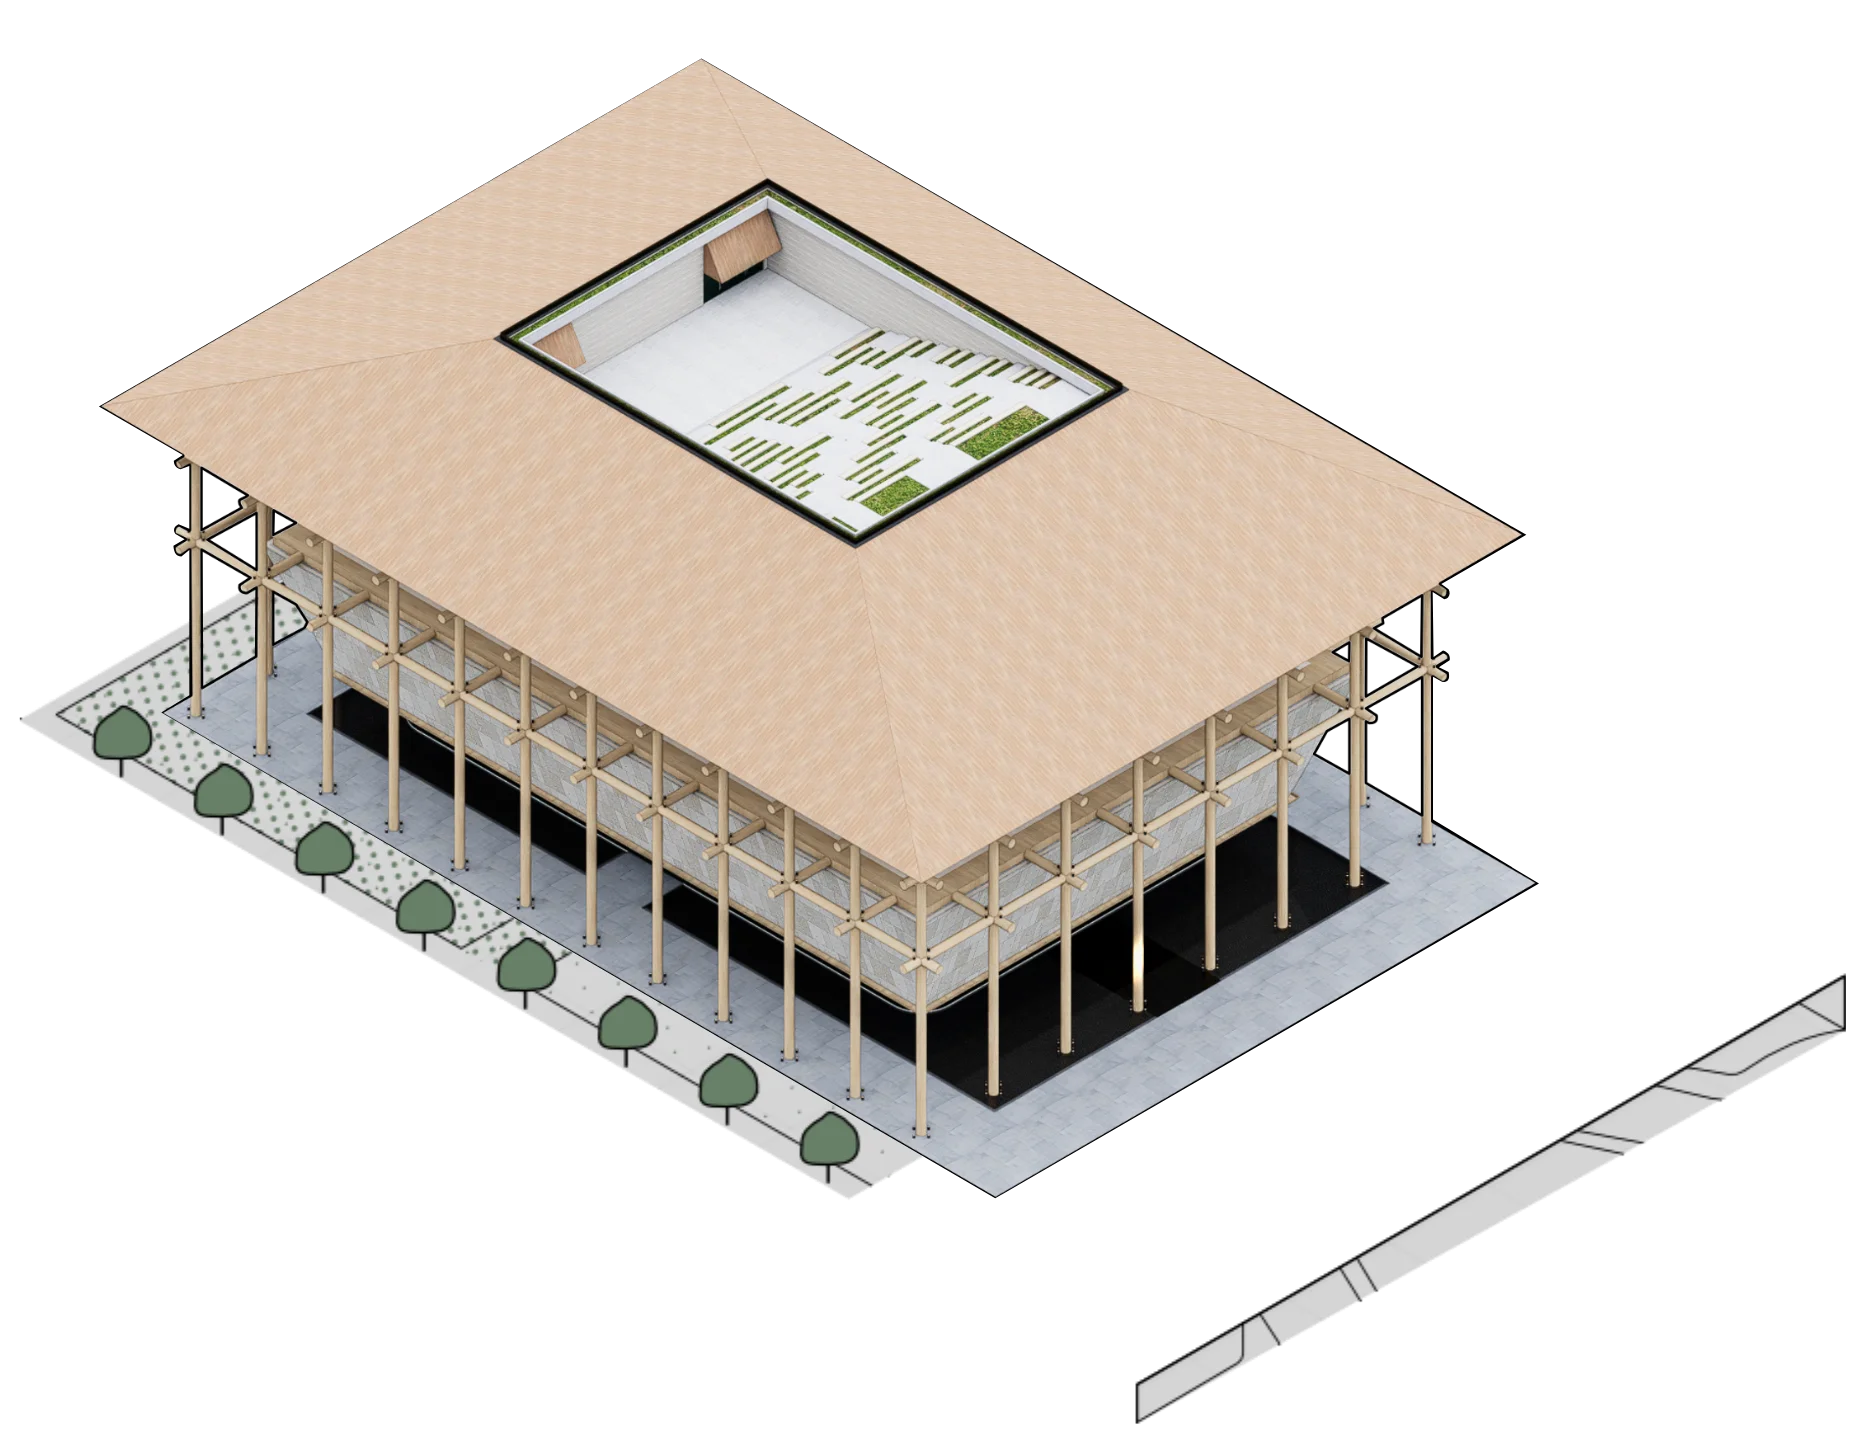
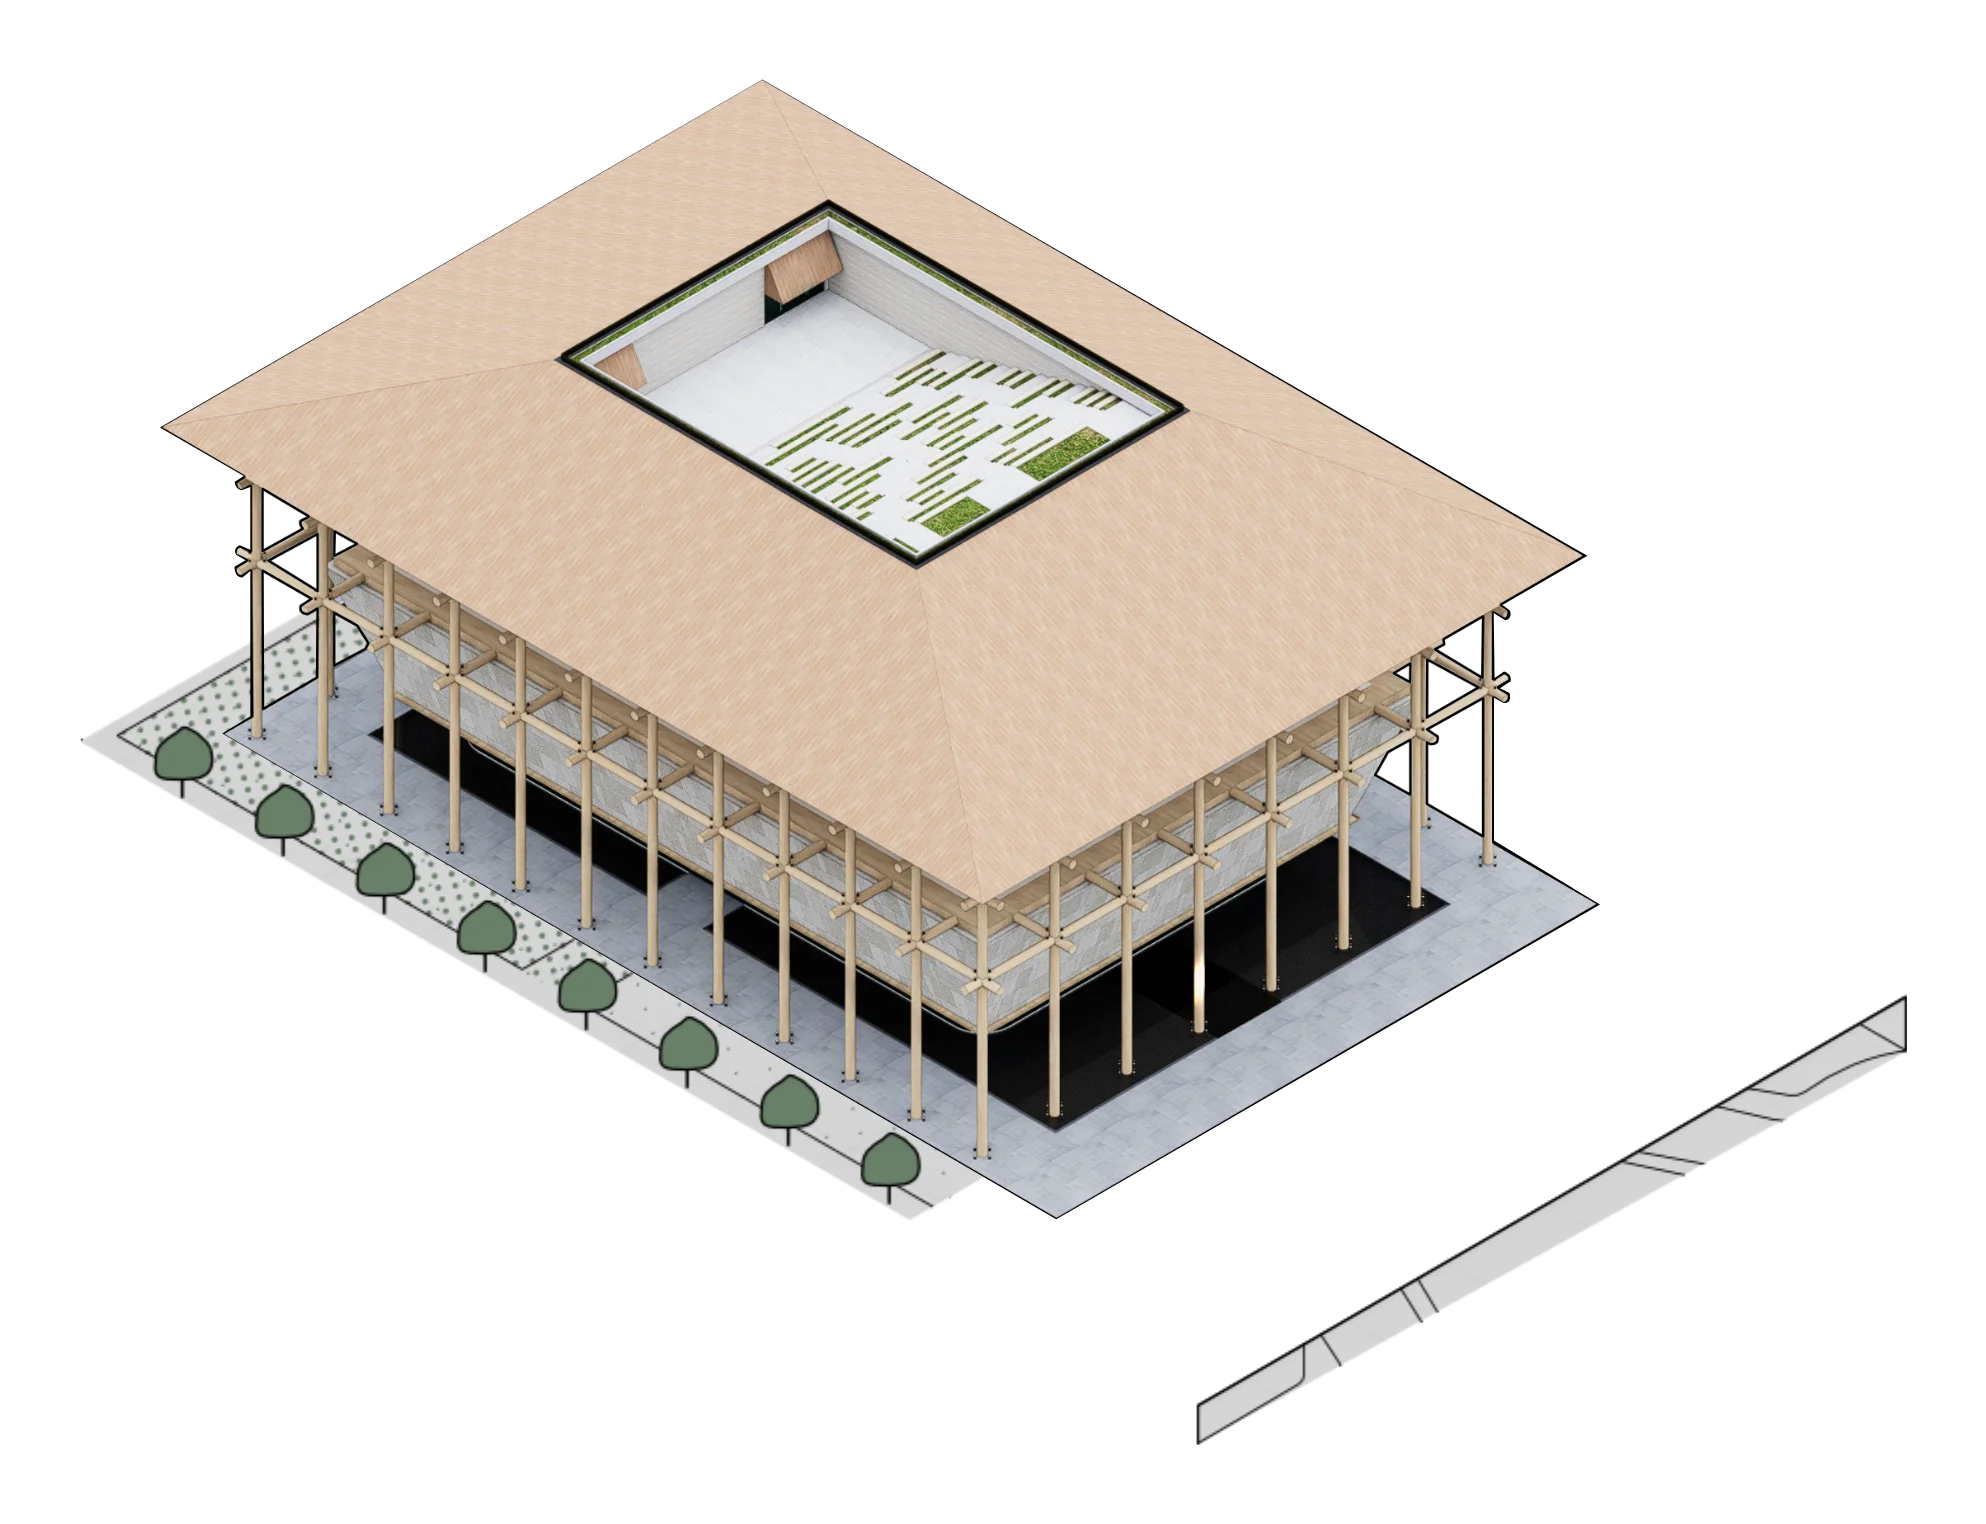
Fix OBRAverse map bugs and simplify the filter bar
- Fix PNP Facility's broken hover photo — 19 image paths in projects.ts
  pointed at .PNG (didn't exist); actual files are .webp
- Fix Loboc hover halo clipping — its overlay was cropped tight against
  a walkway that extended to the edge, so the blurred/scaled halo got
  hard-clipped; regenerate with generous padding around true content
- Remove non-functional DATE/ALPHABETICAL sort and search bar from the
  OBRAverse wordmark bar (leftover from an earlier list-based design,
  had no effect on the map) and fix mobile layout overlap
- Restore full-color map (grayscale/green-dots exploration reverted)

diff --git a/src/pages/obraverse/page.tsx b/src/pages/obraverse/page.tsx
@@ -3,8 +3,6 @@ import Navbar from '@/components/feature/Navbar';
 import Footer from '@/components/feature/Footer';
 import ObraverseMap from '@/components/feature/ObraverseMap';
 
-type SortMode = 'date' | 'alpha';
-
 /* Cloud field for the intro: position, size, and the direction each cloud
    drifts as the sky parts to reveal the map. */
 const INTRO_CLOUDS = [
@@ -28,8 +26,6 @@ const INTRO_CLOUDS = [
 const INTRO_MIN_MS = 2400;
 
 const ObraversePage = () => {
-  const [sort, setSort] = useState<SortMode>('date');
-  const [search, setSearch] = useState('');
   const [reveal, setReveal] = useState(false);
   const [introGone, setIntroGone] = useState(false);
   const mapWrapRef = useRef<HTMLDivElement>(null);
@@ -54,9 +50,10 @@ const ObraversePage = () => {
     const failsafe = new Promise<void>(res => { timers.push(setTimeout(res, 7000)); });
     Promise.race([Promise.all([assets, minHold]), failsafe]).then(() => {
       if (cancelled) return;
-      // position the view near the plaza while the clouds still cover the screen
+      // desktop only: position the view near the plaza while the clouds still
+      // cover the screen; mobile starts at the top of the map
       const el = mapWrapRef.current;
-      if (el) {
+      if (el && window.matchMedia('(min-width: 768px)').matches) {
         const top = el.getBoundingClientRect().top + window.scrollY;
         window.scrollTo({ top: top + el.offsetHeight * 0.72 - window.innerHeight / 2, behavior: 'instant' });
       }
@@ -76,67 +73,20 @@ const ObraversePage = () => {
       {/* Wordmark bar — scrolls away with the page (sticky version slid under
           the fixed navbar and its border showed as a stray line) */}
       <div className="bg-white border-b border-[#e4e3e2]">
-        <div className="flex items-center justify-between px-6 md:px-10 py-3">
-
-          {/* Left: OBRAverse wordmark */}
+        <div className="flex items-center px-6 md:px-10 py-3">
           <div className="flex items-baseline">
             <span
-              className="text-[42px] md:text-[56px] lg:text-[68px] leading-none tracking-[-2px] text-[#383838] font-bold"
+              className="text-[32px] md:text-[56px] lg:text-[68px] leading-none tracking-[-2px] text-[#383838] font-bold"
               style={{ fontFamily: 'var(--font-serif)' }}
             >
               OBRA
             </span>
             <span
-              className="text-[42px] md:text-[56px] lg:text-[68px] leading-none tracking-[-2px] text-[#383838] font-bold"
+              className="text-[32px] md:text-[56px] lg:text-[68px] leading-none tracking-[-2px] text-[#383838] font-bold"
               style={{ fontFamily: 'var(--font-serif)' }}
             >
               verse
             </span>
-          </div>
-
-          {/* Right: sort + pill search */}
-          <div className="flex items-center gap-5 md:gap-7">
-            <button
-              onClick={() => setSort('date')}
-              className={[
-                'text-[11px] tracking-[2.5px] transition-colors duration-200 whitespace-nowrap cursor-pointer',
-                sort === 'date' ? 'text-[#383838]' : 'text-[#c8c7c6] hover:text-[#797979]',
-              ].join(' ')}
-              style={{ fontFamily: 'var(--font-sans)' }}
-            >
-              DATE &uarr;
-            </button>
-            <button
-              onClick={() => setSort('alpha')}
-              className={[
-                'text-[11px] tracking-[2.5px] transition-colors duration-200 whitespace-nowrap cursor-pointer',
-                sort === 'alpha' ? 'text-[#383838]' : 'text-[#c8c7c6] hover:text-[#797979]',
-              ].join(' ')}
-              style={{ fontFamily: 'var(--font-sans)' }}
-            >
-              ALPHABETICAL
-            </button>
-
-            {/* Pill search */}
-            <div className="flex items-center gap-2 border border-[#e4e3e2] rounded-full px-4 py-[6px]">
-              <i className="ri-search-line text-[12px] text-[#aaa]" />
-              <input
-                type="text"
-                value={search}
-                onChange={e => setSearch(e.target.value)}
-                placeholder="SEARCH"
-                className="text-[11px] tracking-[2px] bg-transparent border-none outline-none placeholder-[#c8c7c6] text-[#383838] w-20 md:w-28"
-                style={{ fontFamily: 'var(--font-sans)' }}
-              />
-              {search && (
-                <button
-                  onClick={() => setSearch('')}
-                  className="w-4 h-4 flex items-center justify-center text-[#c8c7c6] hover:text-[#383838] transition-colors duration-150 cursor-pointer"
-                >
-                  <i className="ri-close-line text-[12px]" />
-                </button>
-              )}
-            </div>
           </div>
         </div>
       </div>

diff --git a/src/mocks/projects.ts b/src/mocks/projects.ts
@@ -479,29 +479,29 @@ export const projects: Project[] = [
     status: 'Design Development',
     concept: 'A government facility designed to project authority while remaining accessible to the public it serves. The architecture is disciplined and direct — clean geometry, durable materials, and a clear organizational logic.',
     conceptExtended: 'The building is arranged around a central courtyard that provides natural ventilation and a secure outdoor gathering space. Public-facing functions are placed on the ground floor and are directly accessible from the street. Administrative and operational areas occupy the upper levels, separated from public access but connected to shared amenities.',
-    imageUrl: '/images/pnp-facility/perspective-07.PNG',
+    imageUrl: '/images/pnp-facility/perspective-07.webp',
     imageAspect: '4/3',
     tileImages: [
-      '/images/pnp-facility/perspective-02.PNG',
-      '/images/pnp-facility/perspective-03.PNG',
-      '/images/pnp-facility/perspective-04.PNG',
-      '/images/pnp-facility/perspective-05.PNG',
-      '/images/pnp-facility/perspective-06.PNG',
-      '/images/pnp-facility/perspective-07.PNG',
+      '/images/pnp-facility/perspective-02.webp',
+      '/images/pnp-facility/perspective-03.webp',
+      '/images/pnp-facility/perspective-04.webp',
+      '/images/pnp-facility/perspective-05.webp',
+      '/images/pnp-facility/perspective-06.webp',
+      '/images/pnp-facility/perspective-07.webp',
     ],
     galleryImages: [
-      '/images/pnp-facility/perspective-17.PNG',
-      '/images/pnp-facility/perspective-14.PNG',
-      '/images/pnp-facility/perspective-15.PNG',
-      '/images/pnp-facility/perspective-05.PNG',
-      '/images/pnp-facility/perspective-06.PNG',
-      '/images/pnp-facility/perspective-07.PNG',
-      '/images/pnp-facility/perspective-01.PNG',
-      '/images/pnp-facility/perspective-09.PNG',
-      '/images/pnp-facility/perspective-10.PNG',
-      '/images/pnp-facility/perspective-11.PNG',
-      '/images/pnp-facility/perspective-12.PNG',
-      '/images/pnp-facility/perspective-13.PNG',
+      '/images/pnp-facility/perspective-17.webp',
+      '/images/pnp-facility/perspective-14.webp',
+      '/images/pnp-facility/perspective-15.webp',
+      '/images/pnp-facility/perspective-05.webp',
+      '/images/pnp-facility/perspective-06.webp',
+      '/images/pnp-facility/perspective-07.webp',
+      '/images/pnp-facility/perspective-01.webp',
+      '/images/pnp-facility/perspective-09.webp',
+      '/images/pnp-facility/perspective-10.webp',
+      '/images/pnp-facility/perspective-11.webp',
+      '/images/pnp-facility/perspective-12.webp',
+      '/images/pnp-facility/perspective-13.webp',
     ],
   },
   {

diff --git a/src/components/feature/ObraverseMap.tsx b/src/components/feature/ObraverseMap.tsx
@@ -31,7 +31,7 @@ const BUILDINGS: Building[] = [
   { slug: 'corpuz', name: 'Corpuz Residence', left: 39.151, top: 37.34, width: 28.979, height: 11.25 },
   { slug: 'canga', name: 'Canga Residence', left: 26.714, top: 52.174, width: 15.63, height: 9.328 },
   { slug: 'soria', name: 'Soria Residence', left: 63.672, top: 43.388, width: 29.964, height: 13.034 },
-  { slug: 'loboc', name: 'LOBOC: House of Song', projectId: 'loboc-performing-arts', left: 13.771, top: 8.147, width: 48.594, height: 23.677 },
+  { slug: 'loboc', name: 'LOBOC: House of Song', projectId: 'loboc-performing-arts', left: 12.188, top: 7.806, width: 51.719, height: 24.992 },
   { slug: 'suarez', name: 'Suarez Residence', left: 71.375, top: 29.528, width: 22.5, height: 10.649 },
   { slug: 'pnp', name: 'PNP Facility', projectId: 'pnp-facility', left: 4.172, top: 36.888, width: 26.875, height: 12.473 },
   { slug: 'fringe', name: 'Fringe House', projectId: 'fringe-house', left: 9.88, top: 59.728, width: 12.76, height: 8.462 },

diff --git a/src/pages/projects/page.tsx b/src/pages/projects/page.tsx
@@ -191,7 +191,7 @@ const ProjectsPage = () => {
       {/* OBRAverse CTA — full bleed, edge to edge, shorter */}
       <section className="relative w-full h-[38vh] overflow-hidden group" data-theme="dark">
         <img
-          src="/images/obraverse.webp"
+          src="/images/obraverse/base.webp"
           alt="OBRAverse map"
           className="w-full h-full object-cover object-center transition-transform duration-[1.2s] ease-out group-hover:scale-[1.04]"
         />

diff --git a/src/pages/home/page.tsx b/src/pages/home/page.tsx
@@ -87,7 +87,7 @@ const HomePage = () => (
           {/* Right — map image */}
           <div className="flex-1 overflow-hidden h-full">
             <img
-              src="/images/obraverse.webp"
+              src="/images/obraverse/base.webp"
               alt="OBRAverse map"
               className="w-full h-full object-cover object-center transition-transform duration-700 ease-[cubic-bezier(0.4,0,0.2,1)] group-hover:scale-[1.02]"
             />
